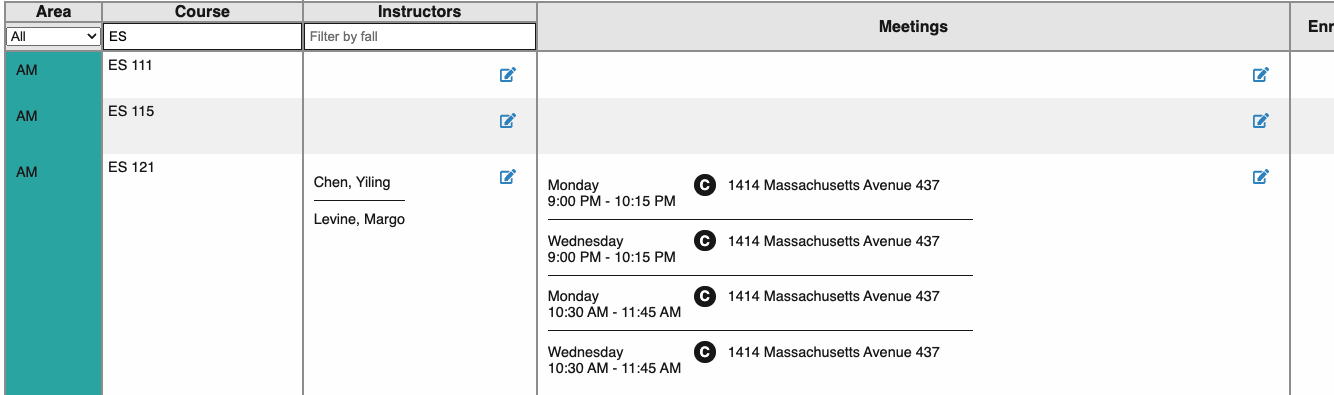
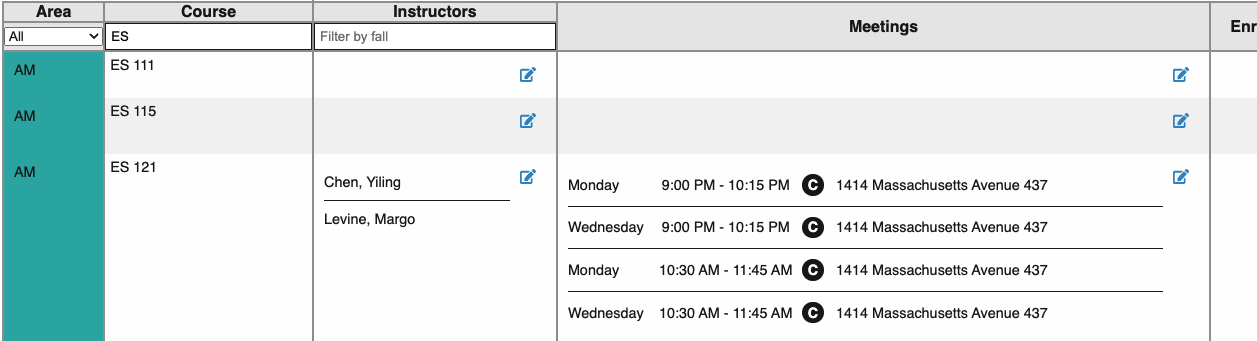
Proposed implementation

diff --git a/kanban-502/course-meeting.html b/kanban-502/course-meeting.html
@@ -2,13 +2,14 @@
     .kdhfxT {
       display: grid;
       grid-template-areas: "time campus room";
-      grid-template-columns: 2fr 2em 3fr 2em;
+      grid-template-columns: 39% 2em auto; /* Just 3 columns with new values */
       -webkit-column-gap: 5px;
       column-gap: 5px;
       -webkit-align-items: baseline;
       -webkit-box-align: baseline;
       -ms-flex-align: baseline;
       align-items: baseline;
+      padding-right: 0.5em; /* Prevent div to overlap the campus icon on smaller displays */
     }
 
     .hEZlkF {
@@ -16,7 +17,9 @@
       display: -webkit-box;
       display: -webkit-flex;
       display: -ms-flexbox;
-      display: flex;
+      /* display: flex; */
+      display: grid; /* Use display:gid; instead */
+
       -webkit-flex-direction: column;
       -ms-flex-direction: column;
       flex-direction: column;
@@ -24,4 +27,16 @@
       -webkit-box-align: flex-start;
       -ms-flex-align: flex-start;
       align-items: flex-start;
+
+      grid-template-columns: repeat(auto-fit, minmax(6em, auto)); /* Responsive css-grid - Meeting weekday and time inline on wide display */
+    }
+    
+    /* Padding between week day and time */
+      .hEZlkF > div:first-child {
+      padding-right: 0.5em;
+    }
+
+    /* Padding between time and campus icon */
+      .hEZlkF div:nth-child(2) {
+      word-break: break-word;
     }
